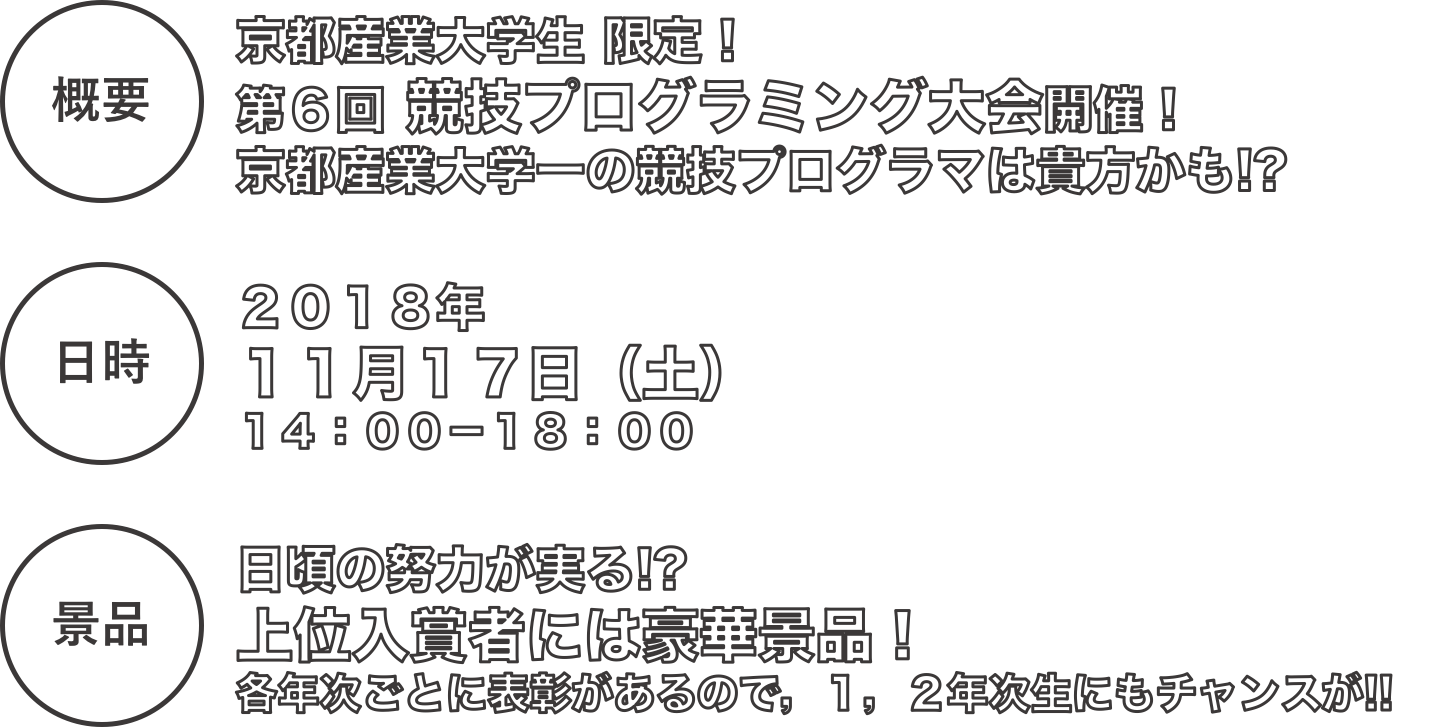
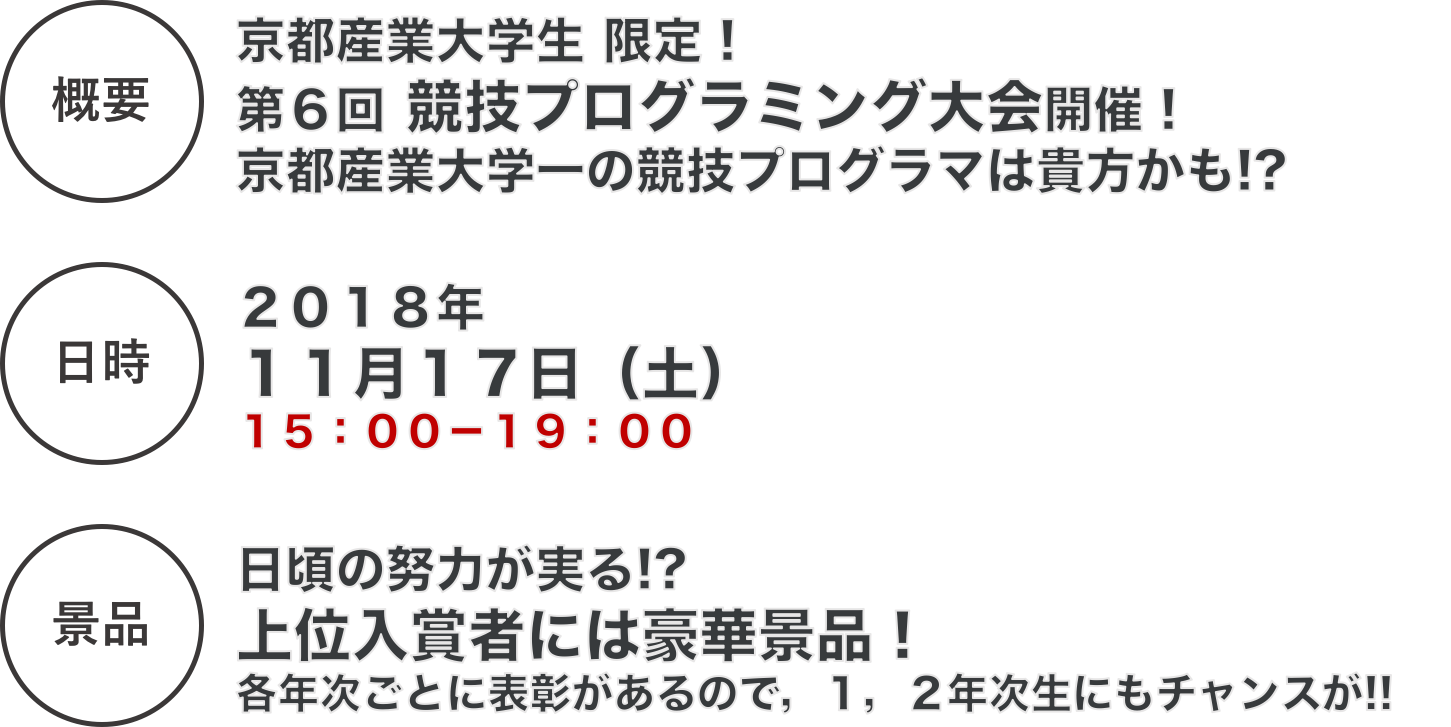
開催時間変更に伴う修正

Changed region(s): [[0.1551, 0.0, 0.8994, 0.2724], [0.1551, 0.7263, 0.9614, 0.9986], [0.1551, 0.3934, 0.4962, 0.6355]]

diff --git a/2018/index.html b/2018/index.html
@@ -32,6 +32,8 @@
                             <tr><td>2018.10.10</td> <td>TeraCoder2018のコンテストサイトを公開しました</td></tr>
                             <tr><td>2018.11.01</td> <td><a href="prize.html">賞品情報</a>を公開しました。</td></tr>
                             -->
+                            <tr><td>2018.11.06</td> <td> <b>開催時間を変更しました。</b></td></tr>
+                            <tr><td>2018.11.01</td> <td>練習コンテスト開催中です。</td></tr>
                             <tr><td>2018.10.27</td> <td>ティザーサイトをオープンしました。</td></tr>
                         </table>
                     </div>
@@ -53,7 +55,7 @@
                 <div class="card">
                     <div class="card-block">
                     <p class="card-title">開催名: TeraCoder2018</p>
-                    <p class="card-text">日程: 11月17日(土) 14:00 - 18:00</p>
+                    <p class="card-text">日程: 11月17日(土) <b>15:00 - 19:00</b> </p>
                     <p class="card-text">会場: Webシステム上で開催 (TeraCoder Online Judge System)</p>
                     <p class="card-text">参加資格: 京都産業大学の学生/教員</p>
                     <p class="card-text">備考: Google検索可/言語制限なし/部門賞・ラッキー賞あり/本番中のネタバレ禁止/事前準備OK</p>
